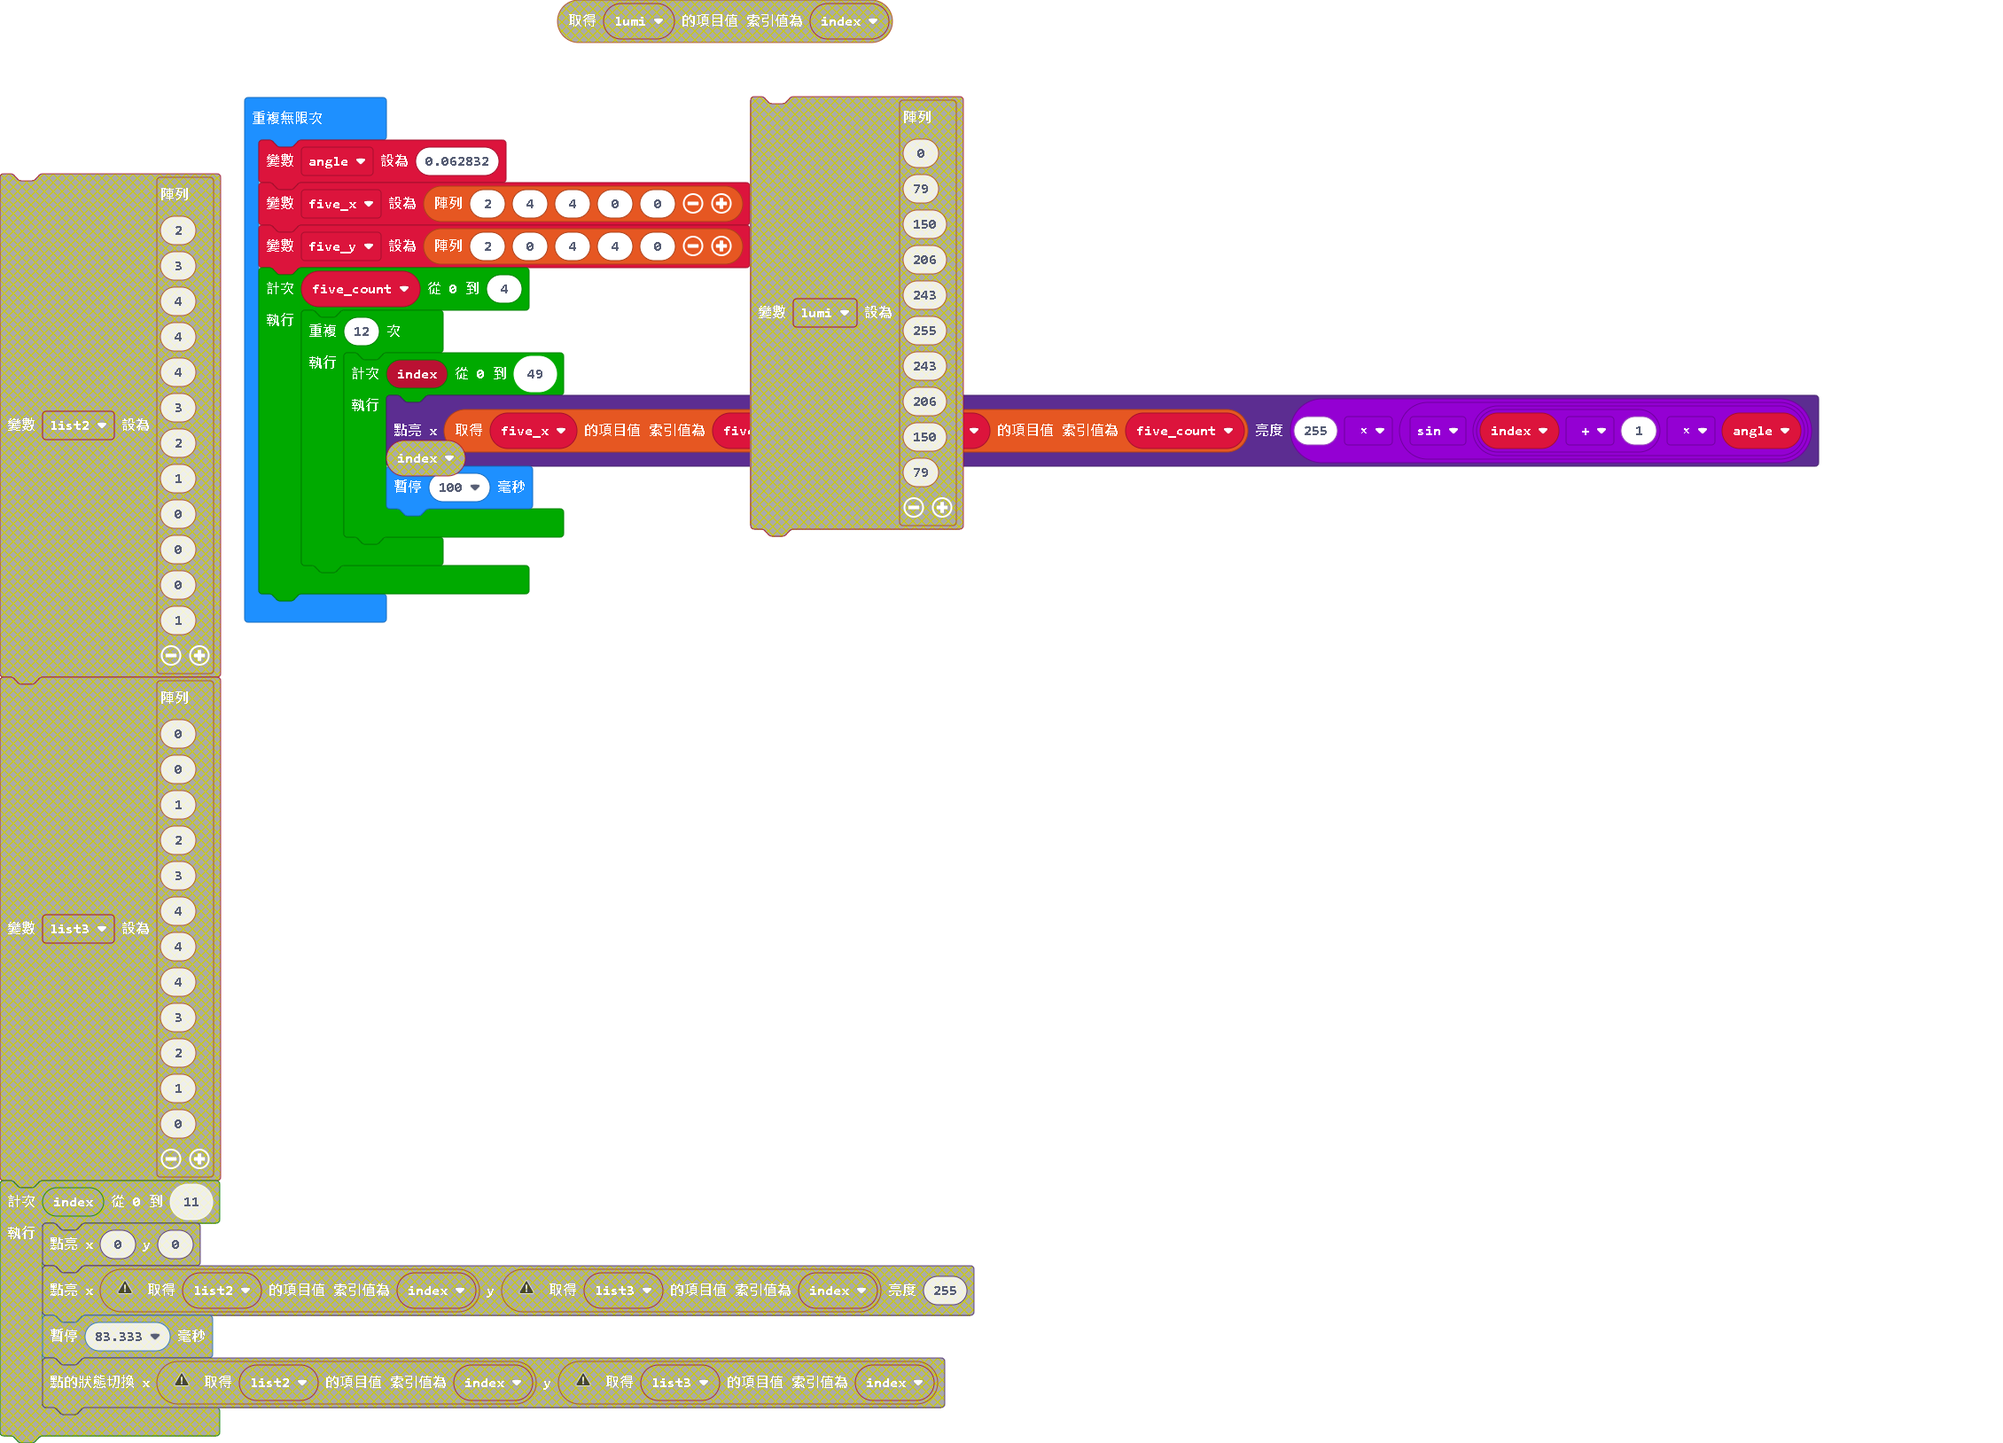
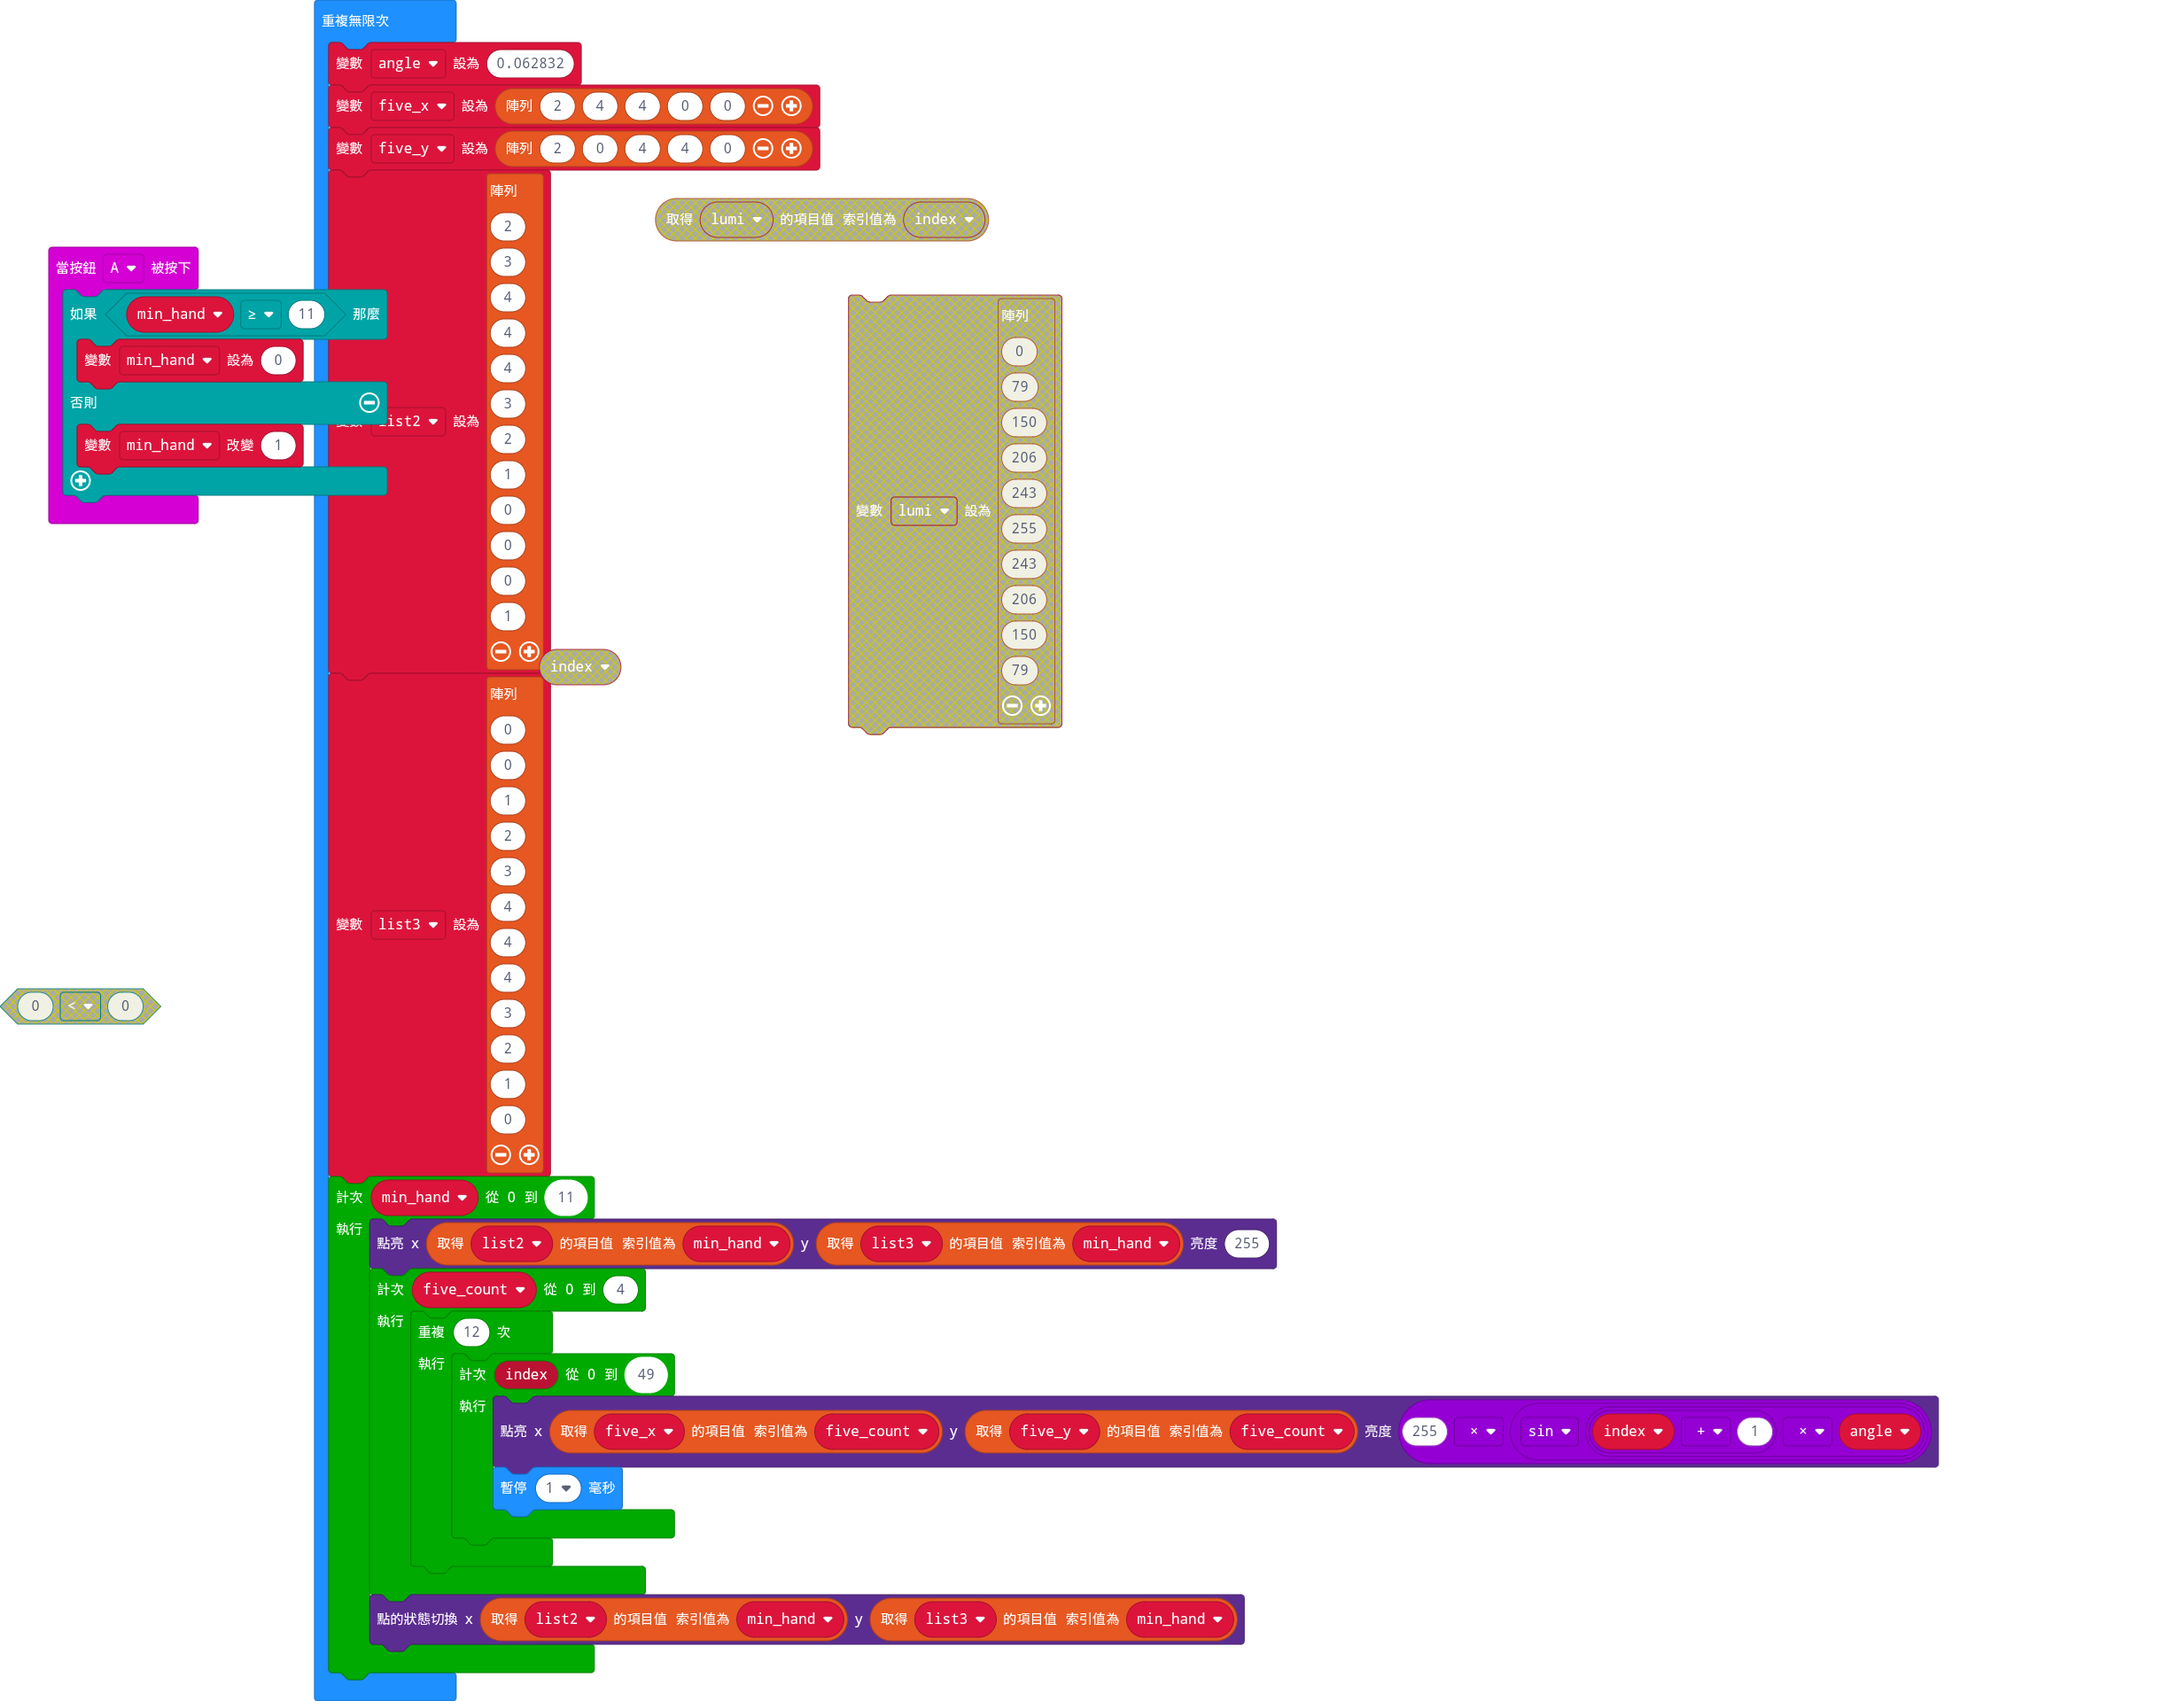
add min hand

diff --git a/main.ts b/main.ts
@@ -1,16 +1,32 @@
+let min_hand = 0
 let angle = 0
 let five_x: number[] = []
 let five_y: number[] = []
+let list2: number[] = []
+let list3: number[] = []
+input.onButtonPressed(Button.A, function () {
+    if (min_hand >= 11) {
+        min_hand = 0
+    } else {
+        min_hand += 1
+    }
+})
 basic.forever(function () {
     angle = 0.062832
     five_x = [2, 4, 4, 0, 0]
     five_y = [2, 0, 4, 4, 0]
-    for (let five_count = 0; five_count <= 4; five_count++) {
-        for (let index = 0; index < 12; index++) {
-            for (let index = 0; index <= 49; index++) {
-                led.plotBrightness(five_x[five_count], five_y[five_count], 255 * Math.sin((index + 1) * angle))
-                basic.pause(100)
+    list2 = [2, 3, 4, 4, 4, 3, 2, 1, 0, 0, 0, 1]
+    list3 = [0, 0, 1, 2, 3, 4, 4, 4, 3, 2, 1, 0]
+    for (let min_hand = 0; min_hand <= 11; min_hand++) {
+        led.plotBrightness(list2[min_hand], list3[min_hand], 255)
+        for (let five_count = 0; five_count <= 4; five_count++) {
+            for (let index = 0; index < 12; index++) {
+                for (let index = 0; index <= 49; index++) {
+                    led.plotBrightness(five_x[five_count], five_y[five_count], 255 * Math.sin((index + 1) * angle))
+                    basic.pause(1)
+                }
             }
         }
+        led.toggle(list2[min_hand], list3[min_hand])
     }
 })
